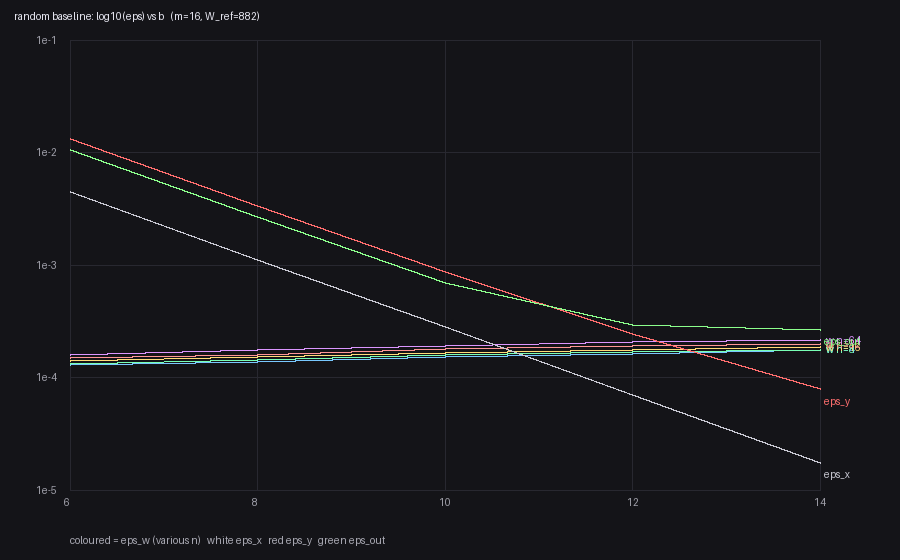
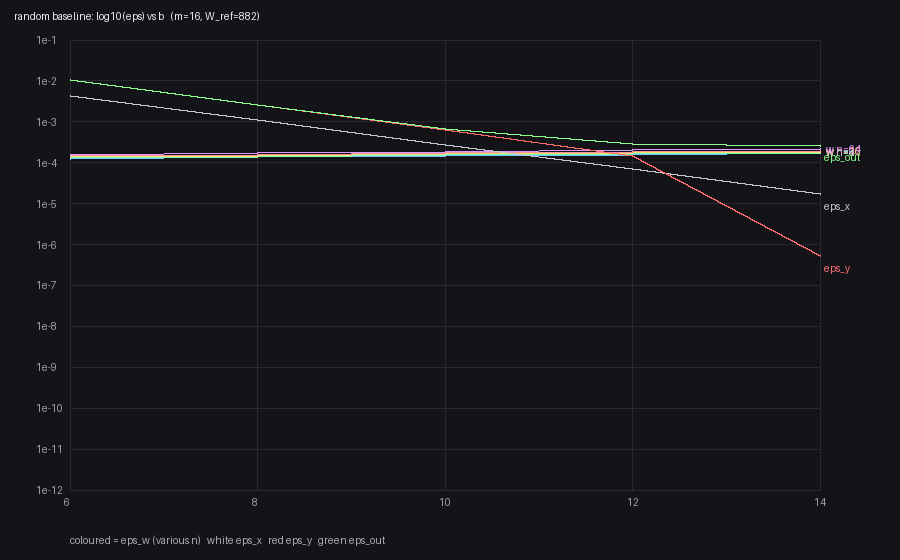
kb(理论): 按独立衡量的口径重算三类误差；eps_y 可为 0
作者的量法要求：
- eps_x：真实输入 vs 量化后逆回
- eps_w：输入取"量化后输入的逆回"，把 eps_x 挡在外面
- eps_y：参考值是 N-P 的逆回（不是真值），把 eps_x、eps_w 都挡在外面

据此：
1) 新增 §2.1 三类误差的对照表 + 口径公式
2) §二 开头改为分情形：Gamma_j>1 时有下界 2^-(b_Y+1)；
   Gamma_j=1 时 eps_y 恒等于 0 —— "输出误差不能取消"不成立
3) 脚本按新口径重算，两张表的 eps_y 全部更新
   b=10: 8.71e-4 -> 6.62e-4；b=14: 7.94e-5 -> 5.3e-7（Gamma 钳到 1）
4) 删掉相对式 2/(4W_ref) 及所有关于它系数的记叙
5) 符号表加 R_n，删除不用的 Omega/omega

Refs: kb/更新记录 #83

diff --git a/kb/30_理论/_calc/error_baseline2.py b/kb/30_理论/_calc/error_baseline2.py
@@ -66,15 +66,20 @@ def one_layer(n, m, b, rng, wref=WREF):
     eta, y, y_hat = r['eta'], r['y'], r['y_hat']
 
     eps_x = np.sqrt(np.mean((r['xhat'] - x) ** 2)) / DELTA
-    # 权重取整：用逆回 input 的精确路径对比（排除 eps_x）
+
+    # 权重取整：输入用"量化后输入的逆回值" xhat，对比精确路径 —— 排除 eps_x
     eta_w = (r['xhat'] - r['xhat0'][None, :]) @ w.T
     eta_w_hat = (r['N'] - r['P'][None, :]) / r['sigma'][None, :]
     d_eta = params['eta'].max(0) - params['eta'].min(0)
     eps_w = float(np.mean(np.sqrt(np.mean((eta_w_hat - eta_w) ** 2, axis=0)) / np.maximum(d_eta, 1e-12)))
-    # 输出量化：末级逆回与 relu 前的真实值之差
-    dY = y.max(0) - y.min(0)
-    eps_y = float(np.mean((r['Gamma'] / r['sigma']) / (2 * np.maximum(dY, 1e-12))))
-    # 单层输出逆回误差：逆回值与真实输出（relu 之后）之差
+
+    # 输出量化：参考值是 "N-P 的逆回"，即 eta_hat；不含 eps_x / eps_w
+    eta_int = (r['N'] - r['P'][None, :]) / r['sigma'][None, :]
+    y_ref = np.maximum(eta_int, 0)
+    dY = y_ref.max(0) - y_ref.min(0)
+    eps_y = float(np.mean(np.sqrt(np.mean((y_hat - y_ref) ** 2, axis=0)) / np.maximum(dY, 1e-12)))
+
+    # 单层输出逆回误差（判据）：逆回值 vs 真实输出，此时三类误差都在里面
     eps_out = float(np.mean(np.sqrt(np.mean((y_hat - y) ** 2, axis=0)) / np.maximum(dY, 1e-12)))
     return eps_x, eps_w, eps_y, eps_out
 
@@ -186,7 +191,7 @@ def main():
     dr.text((14, 10), 'random baseline: log10(eps) vs b   (m=16, W_ref=882)', fill=(235, 235, 245))
     bx0, by0, bw, bh = 70, 40, W - 150, H - 110
     dr.rectangle([bx0, by0, bx0 + bw, by0 + bh], outline=(70, 70, 80))
-    allv = [r[2] for r in rows] + [r[3] for r in rows] + [r[4] for r in rows] + [r[5] for r in rows]
+    allv = [max(v, 1e-12) for v in ([r[2] for r in rows] + [r[3] for r in rows] + [r[4] for r in rows] + [r[5] for r in rows])]
     lo, hi = np.floor(np.log10(min(allv))), np.ceil(np.log10(max(allv)))
 
     def px(b):

diff --git a/kb/00_入口/更新记录.md b/kb/00_入口/更新记录.md
@@ -86,7 +86,8 @@
 | 79 | 2026-11-01 | `30_理论/三类误差与最优位宽.md`、`30_理论/_calc/error_baseline.py`、`kb/figures/error_scaling.png` | **改用随机基线，彻底摆脱具体网络**（作者提议）：① 新写 `_calc/error_baseline.py`——16 输出通道的随机全连接层、权重 iid 正态、输入 $U[-3.5,3.5]$、输入位宽=输出位宽=$b$；扫 $n\in\{4..64\}$ 与 $b\in\{6..14\}$，每格 40 次随机实例×4096 样本；② 文中所有实测数换成该基线的结果，并删去一切具体网络的痕迹（旧数字全清）；③ **三个新发现**：$\epsilon_x/2^{-(b+1)}$ 恒为 0.5774（正是 RMS 与峰值的 | 78 | 2026-10-31 | `30_理论/三类误差与最优位宽.md` | **按作者批语重写（离教材的距离）**：① 全文**去掉层号**——不再出现“第一层/第二层”，改为按“这层的输出还要不要被继续处理”分类，明说“教材不该假设网络叠几层”；② 开篇就划清**结构性 vs 案例性**，并在每一处案例数字旁标注条件；③ 新增 §4.2「“最优”必须先定义」——单层相对误差 / 端到端 / 整图不一致率三种判据给出不同最优点，并写明“不写判据的最优位宽没有意义”；④ §4.3 把“偏 1~2 位”降级为**单案例现象**，不再当结论；⑤ **相对式 $\frac{2}{4W_{\mathrm{ref}}}$ 明确标为拟合值**（$2$ 绑定某份权重分布，换 $n$/$b$/分布都不保证），只保留标度可外推；⑥ 权重误差改用**一般式** $\mathrm{Var}=\frac{1}{12\sigma^2}\sum_{k,i}\pi_i^{(k)}$，把“方差 $\propto b$”的隐含前提（位级均匀 $\pi\approx\frac12$）显式写出来；⑦ 新增 §六「一个实例」，把全部实测数集中到一处并注明“换网络即不成立” | 作者：不能假定网络层数；数据随 $n$ 等变化；最优偏移与相对式都只对特定案例成立 | czm |/\sqrt{12}$）、$\epsilon_w$ 随 $b$ 只涨 1.33 倍且随 $n$ 只涨 1.25 倍、$\epsilon_y$ 随 $n$ 涨 2.5 倍（因 $N^{\max}\sim nb$）；④ 交叉落 $b\approx11$，斜率对上 $\log_2W_{\mathrm{ref}}+c$；⑤ 新增 §六「随机基线」写明测法与可复现性，并强调"换基线只换常数、不换标度" | 作者：用新案例（16 通道随机网络、位宽相等），在基线上扫输入个数与位宽重测三种误差 | czm |
 | 80 | 2026-11-01 | `30_理论/三类误差与最优位宽.md`、`30_理论/_calc/error_baseline2.py`、`opt_b.py`、`kb/figures/error_scaling.png` | **补测「单层输出逆回误差」判据下的最优位宽 + 两处文本改造**：① 新写 `error_baseline2.py`，加 $\epsilon_{\rm out}=\mathrm{rms}(\hat y-y)/\Delta_Y$（$\hat y=\mathrm{relu}(Y\Gamma/\sigma)$），扫 $b=4\sim22$：**$b^*\approx12\sim14$，且是平台（12→20 只差 <10%）**，比 $\epsilon_x{=}\epsilon_w$ 的交叉点（~11）更高；② §4.2 改为**只用这一个判据**，其余判据只提一句“存在、会变”，不再列表比较；③ 新增 §七「串联时误差怎么传」——先讲 $\delta_{X,i}$ 逐坐标不同只改 $\sigma$ 与 $\epsilon_w$、**不改 $\epsilon_x$**（因为 $\epsilon_x$ 是相对各自 $\Delta_i$ 的），再按两套格子的关系分三种情形讨论 $\epsilon_y^{(A)}$ 与 $\epsilon_x^{(B)}$ 是否同一个误差，结论：**同格时相加 = 把同一误差数两遍（高估 √2），只留一个恰好对**；④ 发现并修正 §4.1 与 §六 两张表 $\epsilon_y$ 归一不同（$\Delta_\eta$ vs $\Delta_Y$），已注明 | 作者：补测以输出逆回误差为标准的最优位宽；最优标准只留一个；问 δ 不齐与两层耦合是否会高估/低估 | czm |
 | 81 | 2026-11-01 | `30_理论/三类误差与最优位宽.md` | **改成教材口吻，并补两处遗漏**：① 正文（§六 以外）不再出现“随机基线/基线里反常”这类报告腔，改为“实测（数值见 §六）”；② **纠正一处大错**——原文说“最终结果那一层 epsilon_y 很小”，错在默认了“输出层直接吐实数”。实际上层间默认走 RELU，**每一层都有 epsilon_y**，区别只在下游把级数用掉多少；③ 新增 **$N-P$ 范围的估计**：$N^{\max}_j\approx\sigma\Delta(2^b-1)\sum_i|w|$ 推出 $N^{\max}_j-P_j\sim4W_{\mathrm{ref}}\frac{\sum|w|}{\max|w|}$，**与 $b$ 无关、大致随 $n$ 线性、依赖权重分布**，并指出它在“输出可比”选型时更有用；④ §7.2 改为按约定写死 $\delta_{Y,j}^{(A)}=\delta_{X,i}^{(B)}$——上一层 epsilon_y 与这一层 epsilon_x **就是同一件事**，不是“碰巧相同” | 作者：正文不该提基线；忘了 delta_Y=delta_X 的编译约定；输出层默认走 RELU；要 N-P 的范围估计 | czm |
-| 82 | 2026-11-01 | `30_理论/三类误差与最优位宽.md` | 四处修订：① 头部与引言明说**本页按数模结合推**，输入/输出两类误差普适，权重量化那类换构型要换标尺；新增 §3.4「换成强模 LUT 要改哪一项」——LUT 容器里放的是步长而非位权重，相对分辨率更高，**等效 $W_{\mathrm{ref}}\approx4\times882$**；② **删掉原 §五「位数估计」**（过时），后续节号前移、引用同步；③ **修正 $\epsilon_y$ 的下降速率**——原来写"比 $\epsilon_x$ 掉得还快"，错：两者分母里都有 $2^b$，**按同一个 $2^{-b}$ 下降**，差别只在常数 $R_n/(\sigma_j\Delta_Y)$；④ **新增 §2.3 对 $R_n=\sum|w|/\max|w|$ 的标度推导**——$R_n\sim n\,\mathbb E|w|/\mathbb E[\max|w|]$：均匀分布线性、指数 $n/\ln n$、正态 $n/\sqrt{\pi\ln n}$；实测 2.30/3.80/6.29/11.28/20.21 对公式 1.92/3.13/5.42/9.70/17.7，形状一致、常数低 18% | 作者：明确构型前提；删位数估计；$2^b$ 同在分母不能说掉得更快；$n$ 的正相关明显更弱，要求给出标度推导 | czm |
+| 82 | 2026-11-01 | `30_理论/三类误差与最优位宽.md` | 四处修订：① 头部与引言明说**本页按数模结合推**，输入/输出两类误差普适，权重量化那类换构型要换标尺；新增 §3.4「换成强模 LUT 要改哪一项」——LUT 容器里放的是步长而非位权重，相对分辨率更高，**等效 $W_{\mathrm{ref}}\approx4\times882$**；② **删掉原 §五「位数估计」**（过时），后续节号前移、引用同步；③ **修正 $\epsilon_y$ 的下降速率**——原来写“比 $\epsilon_x$ 掉得还快”，错：两者分母里都有 $2^b$，**按同一个 $2^{-b}$ 下降**，差别只在常数 $R_n/(\sigma_j\Delta_Y)$；④ **新增 §2.3 对 $R_n=\sum|w|/\max|w|$ 的标度推导**——$R_n\sim n\,\mathbb E|w|/\mathbb E[\max|w|]$：均匀分布线性、指数 $n/\ln n$、正态 $n/\sqrt{\pi\ln n}$；实测 2.30/3.80/6.29/11.28/20.21 对公式 1.92/3.13/5.42/9.70/17.7，形状一致、常数低 18% | 作者：明确构型前提；删位数估计；$2^b$ 同在分母不能说掉得更快；$n$ 的正相关明显更弱，要求给出标度推导 | czm |
+| 83 | 2026-11-01 | `30_理论/三类误差与最优位宽.md`、`30_理论/_calc/error_baseline2.py` | **按作者的口径意见重算并修订**：① 明确三类误差**各自独立衡量**——$\epsilon_w$ 用"量化后输入的逆回 $\hat x$"作输入，$\epsilon_y$ 的参考值是 **$N-P$ 的逆回**（不是真值），新增 §2.1 对照表；② 由此推出 **$\Gamma_j=1$ 时 $\epsilon_y\equiv0$**（输出位宽够装下整个范围就只剩截取），删掉原先"每一层都有 $\epsilon_y$/输出误差不能取消"的说法，并把 §二 开头的下界改成"$\Gamma_j>1$ 时成立"的分情形表述；③ 脚本按新口径重算，$\epsilon_y$ 一列全部更新（$b=10$: 8.71e-4→6.62e-4；$b=14$: 7.94e-5→**5.3e-7**），两张表同步；④ **删掉相对式 $\frac{2}{4W_{\mathrm{ref}}}$** 及其系数记叙，只保留可外推的标度；⑤ 符号表加 $R_n$、删除已不用的 $\Omega/\omega$ | 作者：三类误差量法要各自独立（$\epsilon_w$ 用逆回输入、$\epsilon_y$ 用 $N-P$ 的逆回）；相对式若已删要清记叙；$R_n$ 进符号表；$\Omega$ 不用了 | czm |
 
 ---
 
